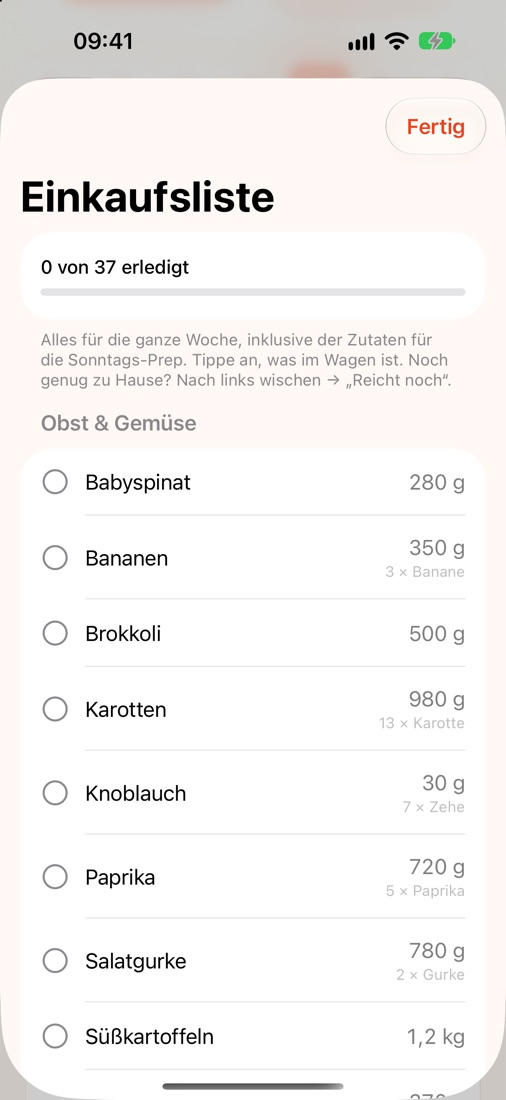
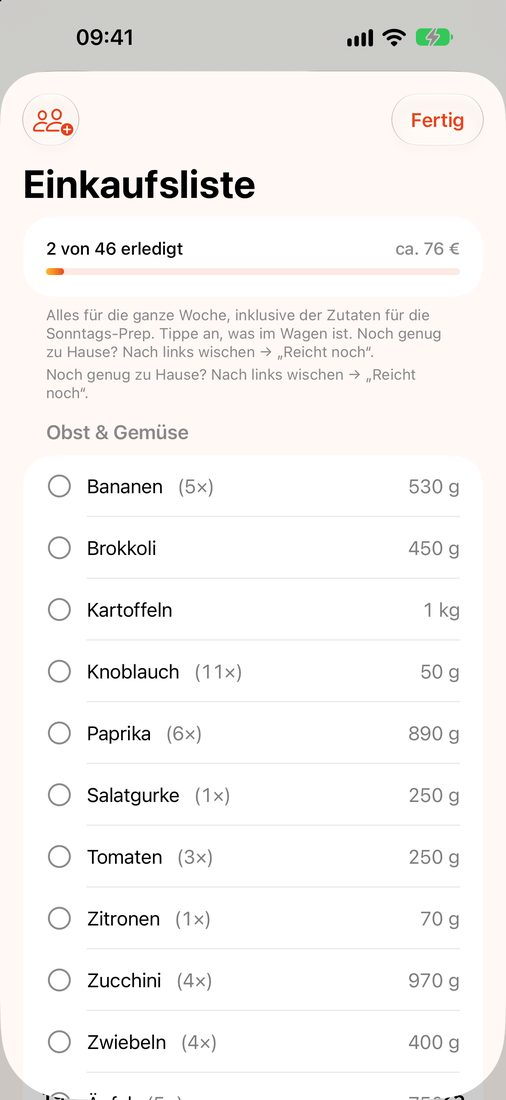
Website auf aktuellen App-Stand: neue Screenshots, Gratis und Plus, keine Gedankenstriche

diff --git a/index.html b/index.html
@@ -3,11 +3,11 @@
 <head>
 <meta charset="utf-8">
 <meta name="viewport" content="width=device-width, initial-scale=1">
-<title>Increvio – Diesmal bleibst du dran.</title>
+<title>Increvio. Diesmal bleibst du dran.</title>
 <meta name="description" content="Increvio plant dein Essen, deinen Einkauf und dein Training. Freunde und deine Serie halten dich dran. Bald im App Store.">
 <meta name="theme-color" content="#FFF8F4" media="(prefers-color-scheme: light)">
 <meta name="theme-color" content="#120D0B" media="(prefers-color-scheme: dark)">
-<meta property="og:title" content="Increvio – Diesmal bleibst du dran.">
+<meta property="og:title" content="Increvio. Diesmal bleibst du dran.">
 <meta property="og:description" content="Dein Coach plant Essen, Einkauf und Training. Freunde und deine Serie halten dich dran.">
 <meta property="og:image" content="https://increvio.com/img/essen.jpg">
 <link rel="icon" href="favicon.svg" type="image/svg+xml">
@@ -26,7 +26,7 @@
     <div>
       <p class="kicker">Dein Coach fürs Dranbleiben</p>
       <h1>Diesmal bleibst du dran.</h1>
-      <p class="lead">Du weißt, was du tun müsstest – Increvio sorgt dafür, dass du es auch tust. Dein Coach plant Essen, Einkauf und Training und sagt dir jeden Tag, was als Nächstes dran ist. Freunde und deine Serie halten dich dran.</p>
+      <p class="lead">Du weißt, was du tun müsstest. Increvio sorgt dafür, dass du es auch tust. Dein Coach plant Essen, Einkauf und Training und sagt dir jeden Tag, was als Nächstes dran ist. Freunde und deine Serie halten dich dran.</p>
       <!-- Platzhalter: Nach dem Launch durch den echten App-Store-Link ersetzen (apps.apple.com/…) -->
       <a class="btn" href="#" aria-disabled="true" role="link">
         <svg width="20" height="20" viewBox="0 0 24 24" aria-hidden="true" fill="currentColor"><path d="M16.37 12.6c-.02-2.2 1.8-3.26 1.88-3.31-1.03-1.5-2.62-1.7-3.18-1.73-1.35-.14-2.64.8-3.33.8-.69 0-1.74-.78-2.87-.76-1.47.02-2.83.86-3.59 2.18-1.53 2.66-.39 6.6 1.1 8.75.73 1.05 1.6 2.24 2.73 2.2 1.1-.05 1.51-.71 2.84-.71 1.32 0 1.7.71 2.86.69 1.18-.02 1.93-1.07 2.65-2.13.84-1.22 1.18-2.4 1.2-2.47-.03-.01-2.3-.88-2.32-3.5zM14.2 6.14c.6-.73 1.01-1.75.9-2.76-.87.04-1.92.58-2.54 1.31-.56.64-1.05 1.67-.92 2.66.97.08 1.96-.49 2.56-1.21z"/></svg>
@@ -41,34 +41,47 @@
   <div class="features">
     <div class="card">
       <div class="icon" aria-hidden="true">🍳</div>
-      <h3>Essen und Einkauf – fertig geplant</h3>
-      <p>Wochenplan nach deinem Ziel, deinen Vorlieben und deiner Zeit zum Kochen. Dazu die Einkaufsliste nach Supermarkt-Bereichen und eine Prep-Anleitung für Sonntag.</p>
+      <h3>Essen und Einkauf, fertig geplant</h3>
+      <p>Wochenplan nach deinem Ziel, deinen Vorlieben, deinem Budget und deinem Tagesrhythmus. Dazu die Einkaufsliste nach Supermarkt-Bereichen und eine Prep-Anleitung für Sonntag. Döner statt Bowl? Eintippen, der Coach plant den Rest um.</p>
     </div>
     <div class="card">
       <div class="icon" aria-hidden="true">🏋</div>
       <h3>Training, das mitwächst</h3>
-      <p>Dein Plan fürs Gym oder zu Hause. Gewichte der letzten Einheit sind schon da, abhaken, fertig. Döner statt Bowl? Eintippen – der Coach plant den Rest um.</p>
+      <p>Dein Plan fürs Gym oder zu Hause. Die Gewichte der letzten Einheit sind schon da, abhaken, fertig. Der Löwe zeigt dir jede Übung vor. Keine Zeit? Plan B mit 20 Minuten.</p>
     </div>
     <div class="card">
       <div class="icon" aria-hidden="true">🔥</div>
-      <h3>Dranbleiben – zusammen</h3>
-      <p>Deine Serie mit Joker, falls mal ein Tag schiefgeht. Freunde sehen, ob du trainiert hast – nie dein Gewicht oder was du isst. Training, Serie und Freunde sind kostenlos.</p>
+      <h3>Dranbleiben, zusammen</h3>
+      <p>Deine Serie mit Joker, falls mal ein Tag schiefgeht. Duo-Flamme, Challenges und Anstupsen mit Freunden. Sie sehen, ob du trainiert hast, nie dein Gewicht oder was du isst.</p>
     </div>
   </div>
 
   <h2>So sieht es aus</h2>
   <div class="shots">
-    <figure><img src="img/essen.jpg" alt="Tagesplan mit Mahlzeiten und Nachricht von Coach Lisa" width="506" height="1100" loading="lazy"><figcaption>Dein Tag – fertig geplant</figcaption></figure>
+    <figure><img src="img/essen.jpg" alt="Essen-Tab mit nächster Mahlzeit und Nährwert-Ringen" width="506" height="1100" loading="lazy"><figcaption>Was als Nächstes dran ist</figcaption></figure>
     <figure><img src="img/einkauf.jpg" alt="Einkaufsliste nach Supermarkt-Bereichen" width="506" height="1100" loading="lazy"><figcaption>Einkauf für die ganze Woche</figcaption></figure>
-    <figure><img src="img/training.jpg" alt="Trainingswoche mit erledigten Tagen" width="506" height="1100" loading="lazy"><figcaption>Training abhaken</figcaption></figure>
-    <figure><img src="img/ziele.jpg" alt="Kalorien- und Eiweißziel pro Tag" width="506" height="1100" loading="lazy"><figcaption>Ziele, verständlich erklärt</figcaption></figure>
+    <figure><img src="img/training.jpg" alt="Trainingswoche mit Coach Lisa" width="506" height="1100" loading="lazy"><figcaption>Training abhaken</figcaption></figure>
+    <figure><img src="img/serie.jpg" alt="Serie mit Jahreskalender und Joker" width="506" height="1100" loading="lazy"><figcaption>Deine Serie, dein Jahr</figcaption></figure>
+    <figure><img src="img/wissen.jpg" alt="Tageswissen: 21 Tage? Eher 66." width="506" height="1100" loading="lazy"><figcaption>Jeden Tag ein Aha, mit Studie</figcaption></figure>
   </div>
 
   <h2>Dein Coach: Lisa oder Max</h2>
-  <p class="note">Du wählst, wer dich begleitet – und wie: locker, sachlich oder streng.</p>
+  <p class="note">Du wählst, wer dich begleitet und wie: locker, sachlich oder streng.</p>
   <div class="coaches">
     <figure><img src="img/lisa.svg" alt="Coach Lisa" width="300" height="400" loading="lazy"><figcaption>Lisa</figcaption></figure>
     <figure><img src="img/max.svg" alt="Coach Max" width="300" height="400" loading="lazy"><figcaption>Max</figcaption></figure>
+  </div>
+
+  <h2>Kostenlos oder Plus</h2>
+  <div class="features">
+    <div class="card">
+      <h3>Kostenlos</h3>
+      <p>Trainingsplan und Abhaken, Serie mit Joker, Freunde, Tageswissen, Nährwert-Ringe und deine Gerichte für heute.</p>
+    </div>
+    <div class="card">
+      <h3>Increvio Plus</h3>
+      <p>Dein Coach plant die ganze Woche: Essensplan, Einkaufsliste, Prep-Anleitung, Umplanen per KI und jede Woche ein Joker. 9,99 € pro Monat oder 79 € pro Jahr, das Jahresabo mit 14 Tagen gratis.</p>
+    </div>
   </div>
 
   <p class="note" style="margin-top:40px">Increvio ist eine Wellness-App für Erwachsene ab 18. Sie stellt keine Diagnosen und ersetzt keine ärztliche Beratung.</p>

diff --git a/support/index.html b/support/index.html
@@ -3,7 +3,7 @@
 <head>
 <meta charset="utf-8">
 <meta name="viewport" content="width=device-width, initial-scale=1">
-<title>Support – Increvio</title>
+<title>Support | Increvio</title>
 <meta name="description" content="Hilfe und Kontakt zur App Increvio.">
 <link rel="icon" href="../favicon.svg" type="image/svg+xml">
 <link rel="icon" href="../favicon.ico" sizes="any">
@@ -17,7 +17,7 @@
 </div></header>
 <main class="wrap narrow">
 <h1>Support</h1>
-<p>Frage, Fehler oder Idee? Schreib uns – wir melden uns so schnell wie möglich.</p>
+<p>Frage, Fehler oder Idee? Schreib uns, wir melden uns so schnell wie möglich.</p>
 <!-- Adresse support@increvio.com muss bei IONOS als Postfach oder Weiterleitung angelegt sein. -->
 <p><a class="btn" href="mailto:support@increvio.com">support@increvio.com</a></p>
 <p class="note">Hilfreich bei Fehlern: iPhone-Modell, iOS-Version und was du gerade gemacht hast. Ein Screenshot hilft oft am meisten.</p>
@@ -26,17 +26,17 @@
 
 <details>
   <summary>Was kostet Increvio?</summary>
-  <p>Training, Serie und Freunde sind kostenlos – dazu siehst du jeden Tag deine Gerichte für heute. Mit Increvio Plus plant dein Coach die ganze Woche: Essensplan, Einkaufsliste, Prep-Anleitung und Umplanen per KI. Plus kannst du 14 Tage gratis testen, danach kostet es 9,99 € pro Monat oder 79 € pro Jahr. Kündigen kannst du jederzeit in den Einstellungen deines iPhones unter „Apple-Account → Abonnements“.</p>
+  <p>Training, Serie und Freunde sind kostenlos, dazu Tageswissen, Nährwert-Ringe und deine Gerichte für heute. Mit Increvio Plus plant dein Coach die ganze Woche: Essensplan, Einkaufsliste, Prep-Anleitung und Umplanen per KI. Plus kostet 9,99 € pro Monat oder 79 € pro Jahr. Das Jahresabo kannst du 14 Tage gratis testen. Kündigen kannst du jederzeit in den Einstellungen deines iPhones unter „Apple-Account → Abonnements“.</p>
 </details>
 
 <details>
   <summary>Brauche ich ein Konto?</summary>
-  <p>Nein. Ohne Konto bleiben alle Daten nur auf deinem iPhone. Ein Konto brauchst du für Freunde und damit dein Plan auf einem neuen iPhone wieder da ist – gespeichert in Frankfurt (EU).</p>
+  <p>Nein. Ohne Konto bleiben alle Daten nur auf deinem iPhone. Ein Konto brauchst du für Freunde und damit dein Plan auf einem neuen iPhone wieder da ist. Gespeichert wird in Frankfurt (EU).</p>
 </details>
 
 <details>
   <summary>Was sehen meine Freunde?</summary>
-  <p>Nur Haken, deine Serie, Punkte und erledigte Trainings. Nie dein Gewicht, deine Kalorien oder was du isst – außer du teilst einen Erfolg ausdrücklich selbst.</p>
+  <p>Nur Haken, deine Serie, Punkte und erledigte Trainings. Nie dein Gewicht, deine Kalorien oder was du isst, außer du teilst einen Erfolg ausdrücklich selbst.</p>
 </details>
 
 <details>

diff --git a/impressum/index.html b/impressum/index.html
@@ -3,7 +3,7 @@
 <head>
 <meta charset="utf-8">
 <meta name="viewport" content="width=device-width, initial-scale=1">
-<title>Impressum – Increvio</title>
+<title>Impressum | Increvio</title>
 <link rel="icon" href="../favicon.svg" type="image/svg+xml">
 <link rel="icon" href="../favicon.ico" sizes="any">
 <link rel="apple-touch-icon" href="../apple-touch-icon.png">
